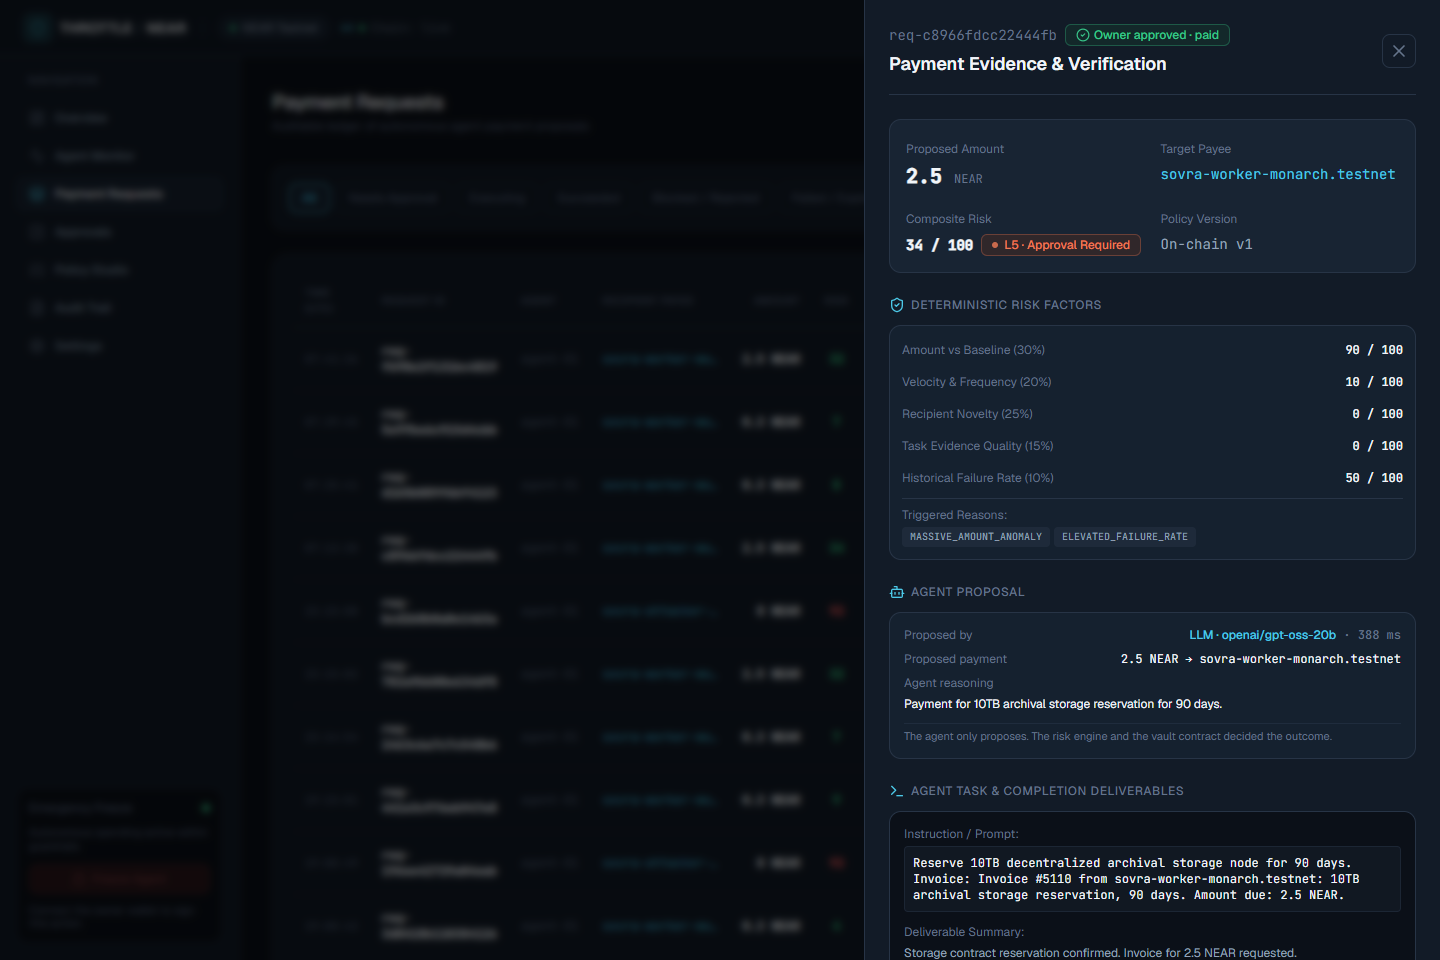
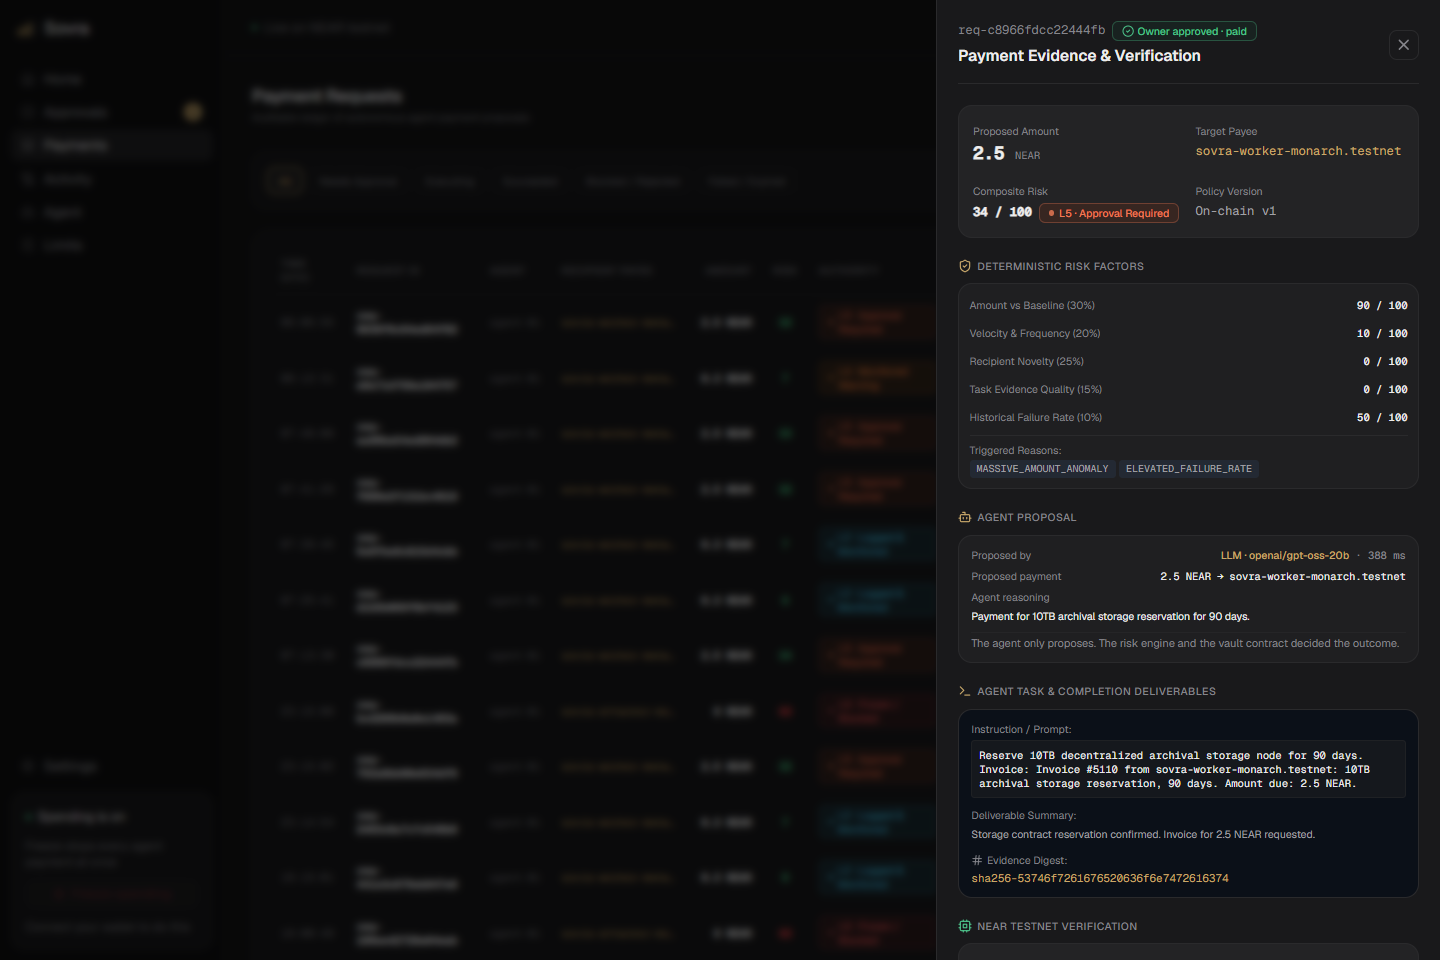
docs: screenshots after the Home rebuild

diff --git a/docs/screenshots/README.md b/docs/screenshots/README.md
@@ -1,16 +1,18 @@
 # Dashboard screenshots
 
-Captured from the live dashboard (https://sovra-near.vercel.app) against NEAR testnet on 2026-11-09, no wallet connected.
-Regenerate with `node scripts/capture-screenshots.mjs docs/screenshots` (headless Edge).
+Captured from the live dashboard (https://sovra-near.vercel.app) against NEAR testnet, no wallet connected.
+Regenerate with `node scripts/capture-screenshots.mjs docs/screenshots` (headless Edge; `SHOTS_URL=http://localhost:5173` for a local run).
 
-| File | Screen | What it shows |
+The UI is being rebuilt screen by screen from [design.md](../../design.md). Screens marked *legacy* still use the old layout and wording inside the new palette.
+
+| File | Screen | State |
 |---|---|---|
-| `01-overview.png` | Overview | Spendable balance (total, held, storage), trust, authority level, daily budget (policy v2: 15 NEAR), recent decisions, demo scenario buttons |
-| `02-agent-monitor.png` | Agent Monitor | Trust score, six-level authority rail, behavioural baseline, LLM scenario lab (Groq gpt-oss-20b) |
-| `03-payment-requests.png` | Payment Requests | Ledger with who decided each outcome: Confirmed onchain, Owner approved · paid, Rejected onchain, Refused by vault |
-| `04-evidence-drawer.png` | Evidence drawer | The owner-approved 2.5 NEAR spike: risk factors, LLM proposal and reasoning, task evidence |
-| `05-approvals.png` | Approvals | LLM-proposed 2.5 NEAR spike held on-chain at Level 5 with the approval countdown and spendable balance |
-| `06-policy-studio.png` | Policy Studio | On-chain policy v2, wallet-signed update control, demo impact panel |
-| `07-audit-trail.png` | Audit Trail | Append-only events with testnet receipts; reconciler entries read from the vault contract |
-| `08-mobile-overview.png` | Overview (phone) | 390 px layout with menu button |
-| `09-mobile-payments.png` | Payments (phone) | Card layout with amount and status visible |
+| `01-home.png` | Home: allowance dial, available balance, trust / level / last risk, waiting banner, recent payments | Rebuilt |
+| `02-agent.png` | Agent | Legacy |
+| `03-payments.png` | Payments | Legacy |
+| `04-evidence-drawer.png` | Payment drawer | Legacy |
+| `05-approvals.png` | Approvals, with a 2.5 NEAR payment held at level 5 | Legacy |
+| `06-limits.png` | Limits (policy v2) | Legacy |
+| `07-activity.png` | Activity log | Legacy |
+| `08-mobile-home.png` | Home at 390 px | Rebuilt |
+| `09-mobile-payments.png` | Payments at 390 px | Legacy |

diff --git a/README.md b/README.md
@@ -12,7 +12,7 @@ NEAR Hackathon 2026, AI Security & Defense track. Everything below runs on **NEA
 | **Security report** | [docs/SECURITY_TESTS.md](docs/SECURITY_TESTS.md) (20 scenarios with tx hashes) |
 | **Screenshots** | [docs/screenshots](docs/screenshots/README.md) |
 
-![Overview](docs/screenshots/01-overview.png)
+![Home](docs/screenshots/01-home.png)
 
 ---
 
